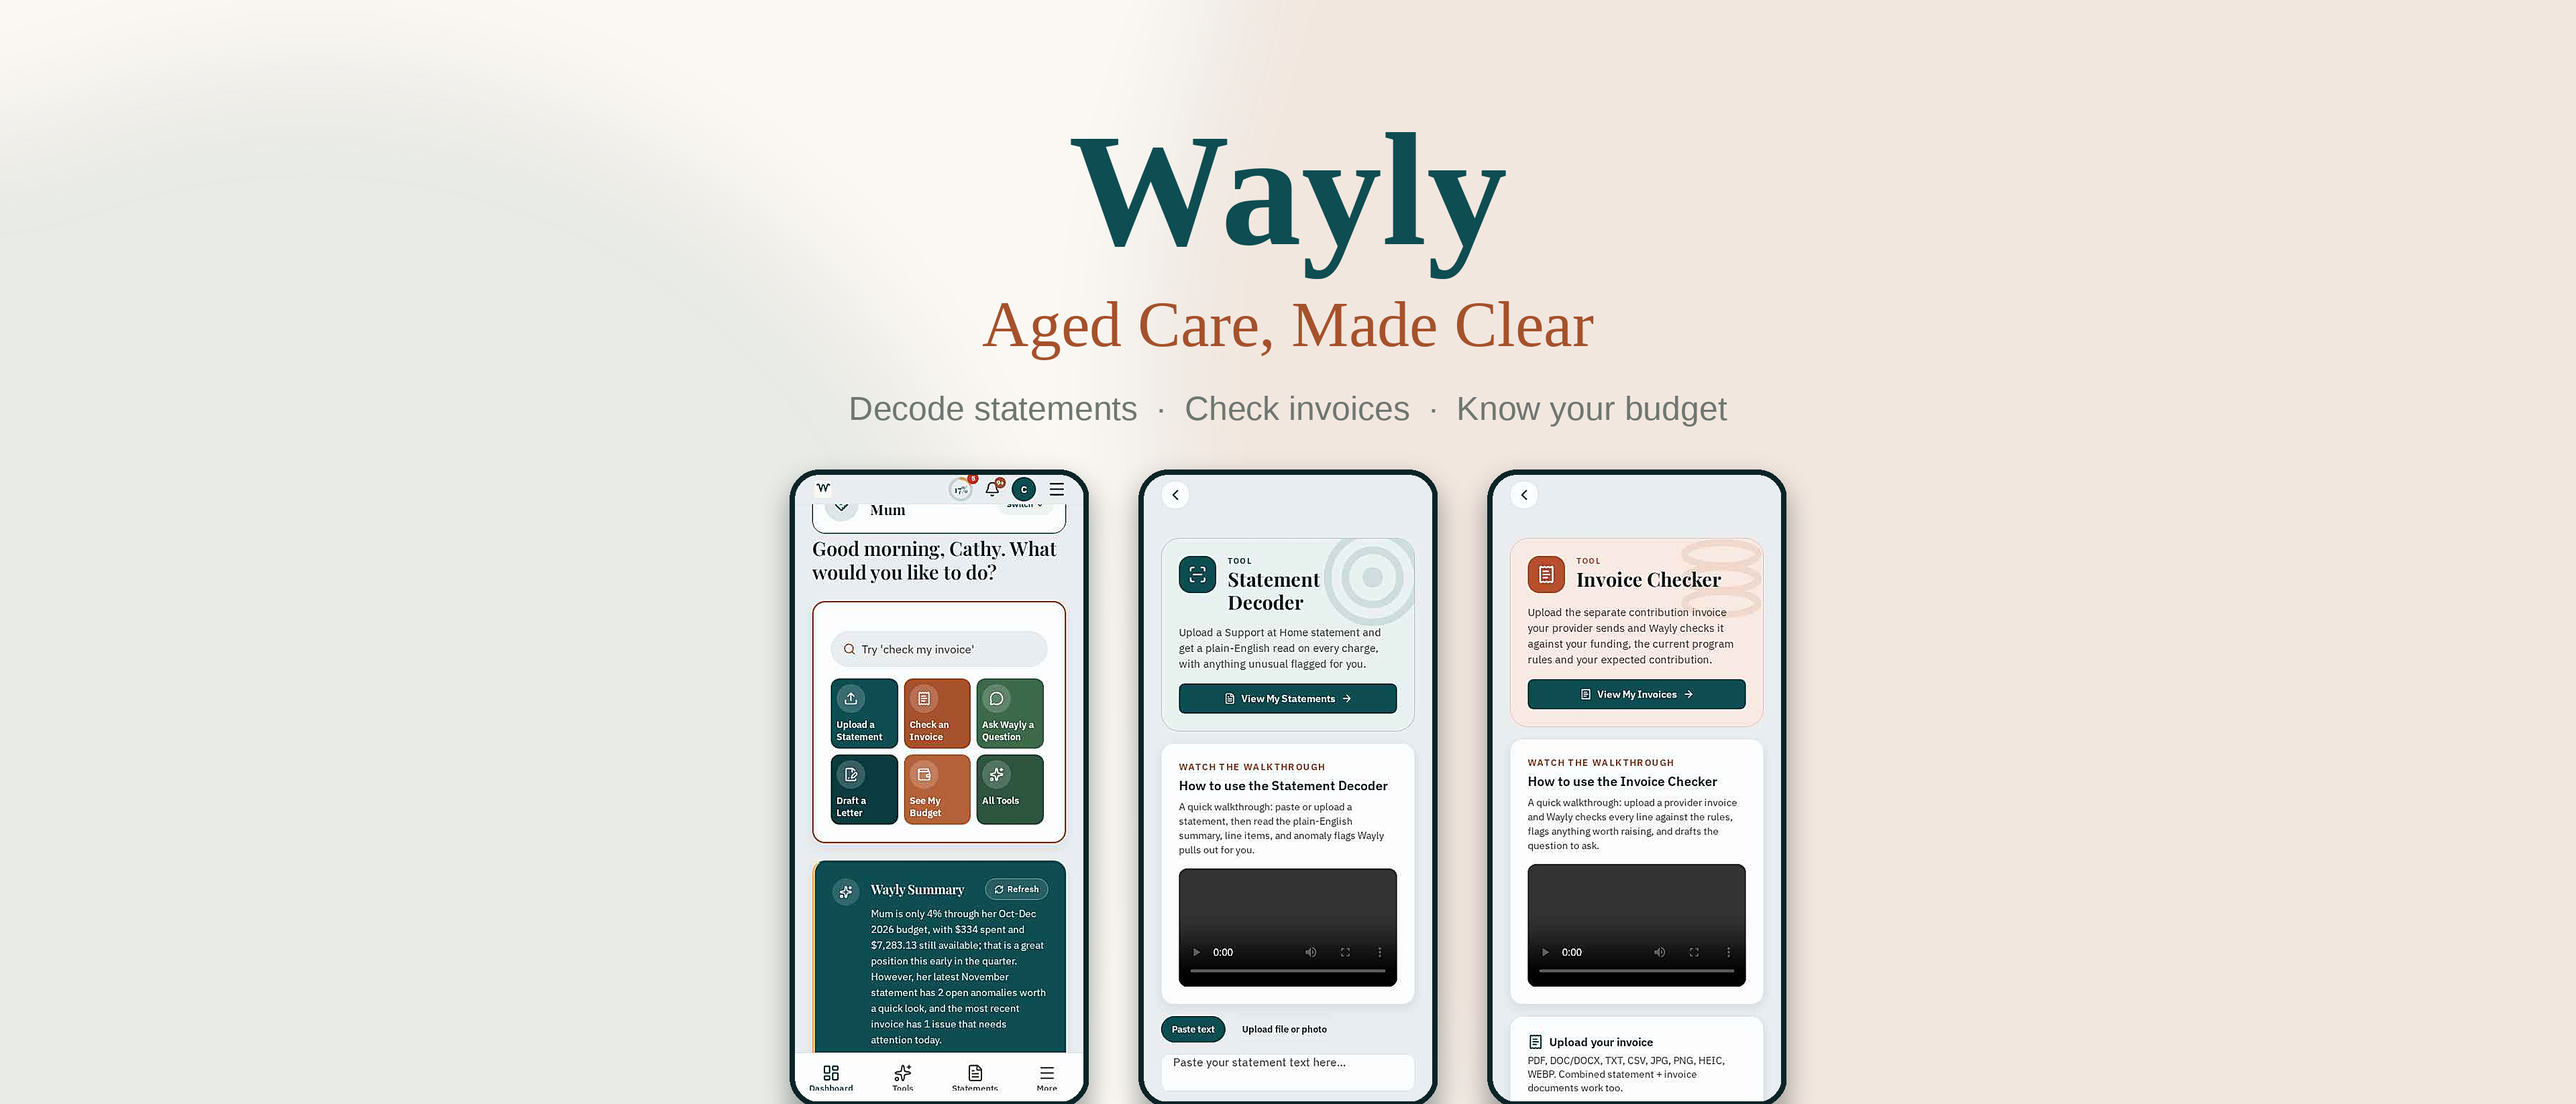
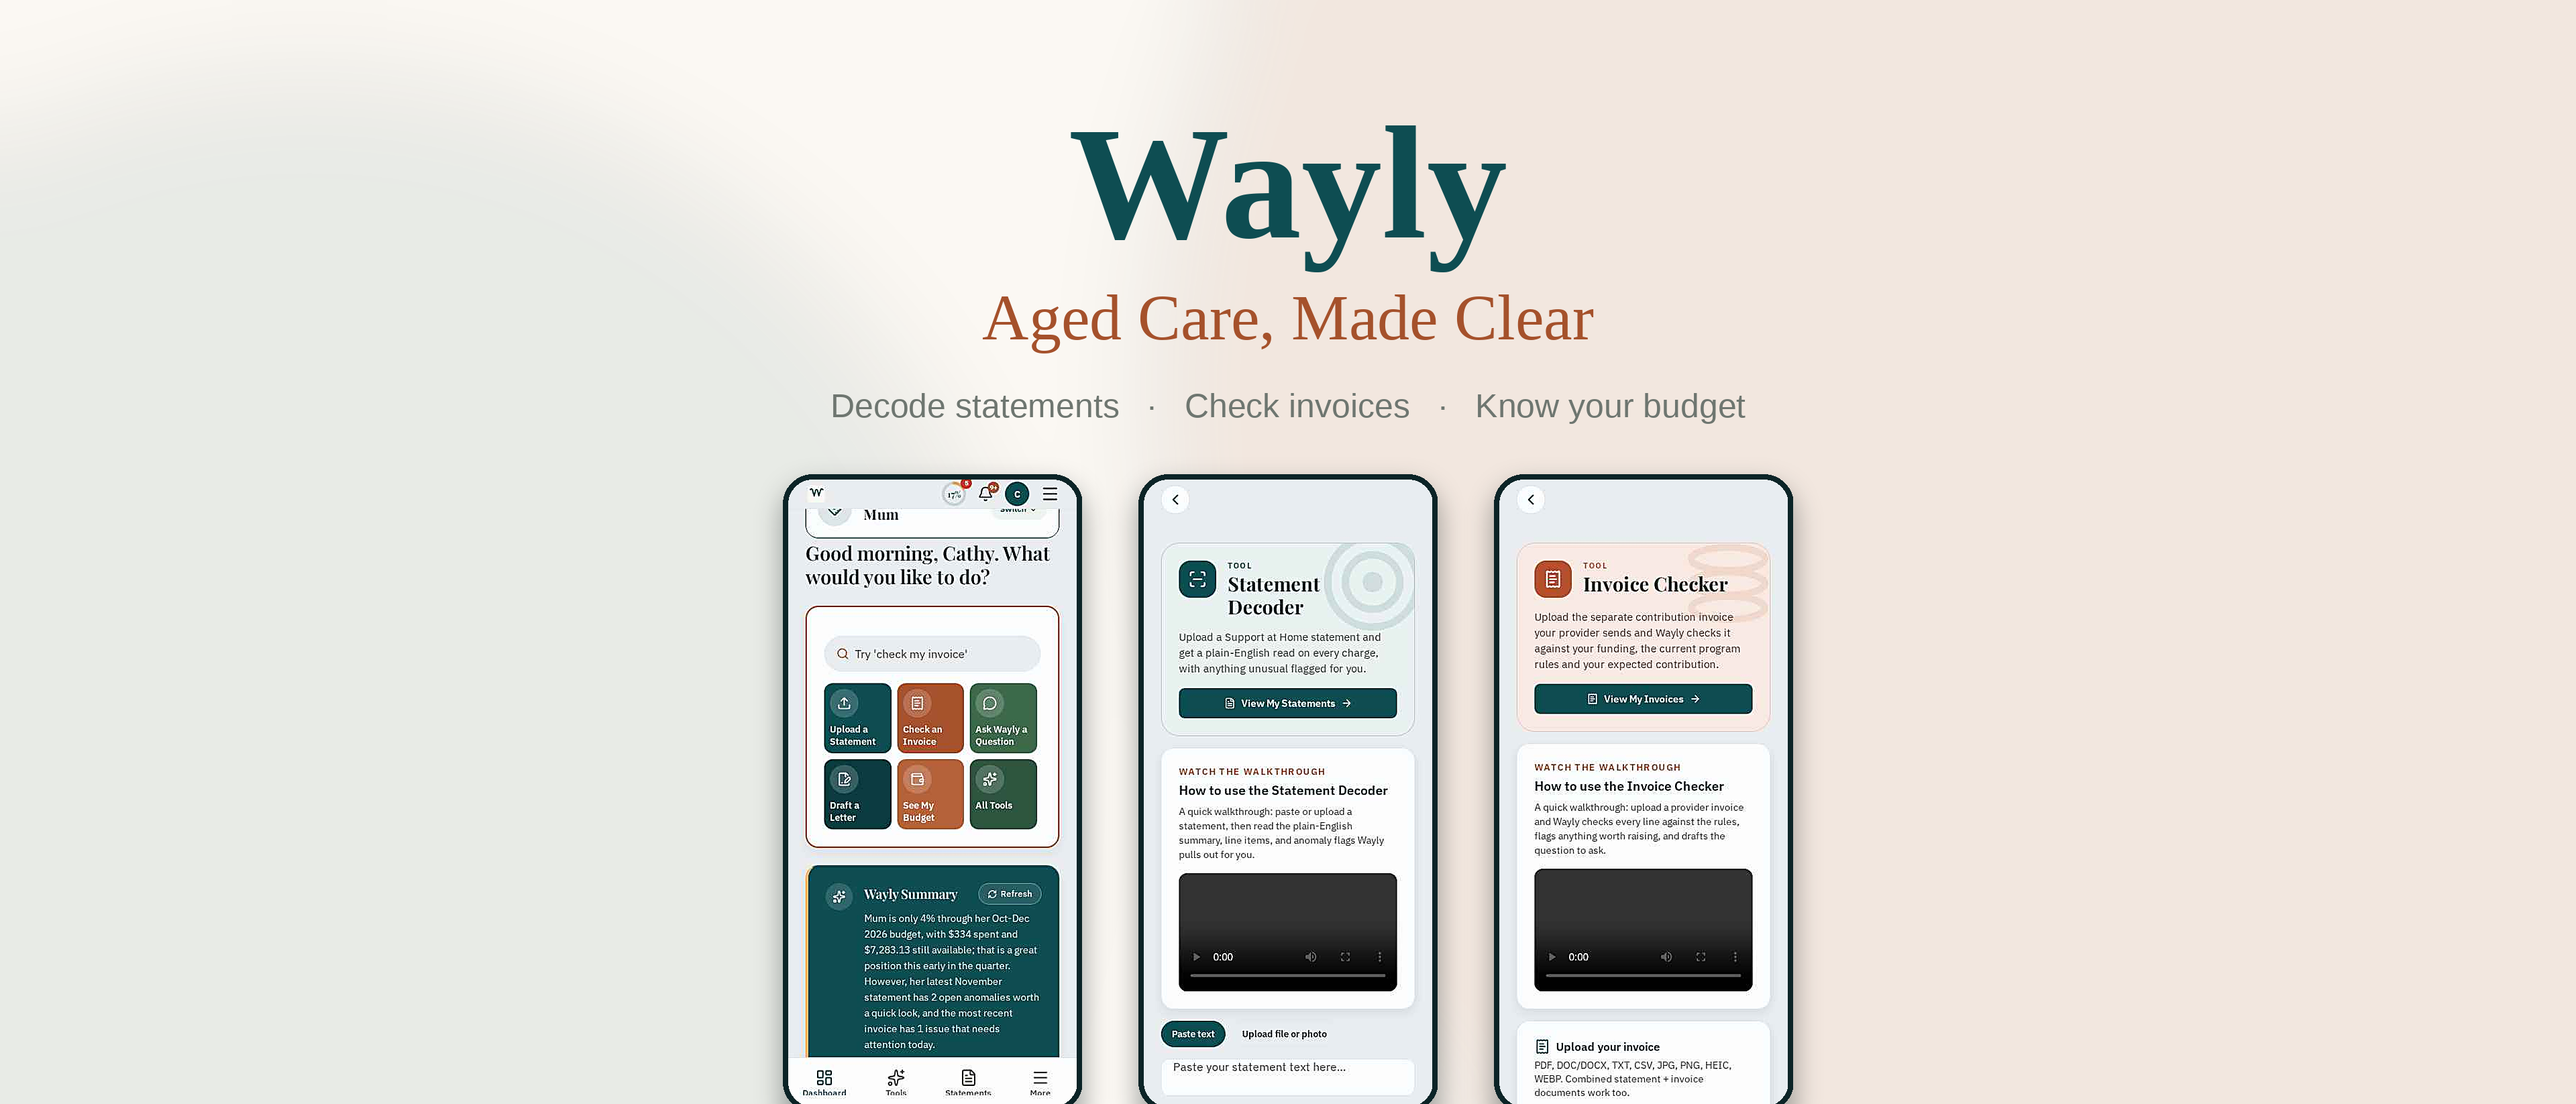
## Done this turn
**1. App Store creative assets (Header + Search Results)** — reviewed Apple's asset best-practices and generated **every size App Store Connect accepts** for both slots, grouped as zips (served at your web preview URL):
- **Header** → `wayly_header_assets.zip`: `3840×1646` + `5244×2950` (universal)
- **Search Results** → `wayly_search_assets.zip`: `1920×1280` + `3840×2560` + `5244×2950` (universal)
- The `5244×2950` file is Apple's recommended **universal asset** — one image usable across both slots. Upload the largest size each slot accepts; App Store scales the rest. Use the **Preview** button in App Store Connect before publishing.
- Compliant: no pricing/URLs/copyright, legible text kept in the safe centre, brand-first single idea.

**2. Mobile Dashboard parity (P0) — FIXED & verified** — `DashboardActionBar.tsx` quick-action tiles now show the descriptive subtitle under each title (e.g. "Upload a Statement" / "Decode your monthly Support at Home statement"), matching web. Grid switched from 3 columns to 2 columns so the text fits cleanly. Verified via screenshot logged in as cathy@example.com — all 6 tiles render title + subtitle. Mobile service restarted. (Small single-component change — verified by screenshot, no full testing-agent run needed.)

## Next Action Items
- **Statements & Invoices Parity**: Finish the core-screens parity review by comparing the mobile Statements and Invoices screens against web and aligning any gaps
[…]

diff --git a/mobile/src/components/DashboardActionBar.tsx b/mobile/src/components/DashboardActionBar.tsx
@@ -105,7 +105,10 @@ export function DashboardActionBar() {
                 <View style={[styles.tileIcon, { backgroundColor: "rgba(255,255,255,0.18)" }]}>
                   <Icon size={20} color="#fff" />
                 </View>
-                <T style={{ fontFamily: fonts.bodySemi, fontSize: 13, color: "#fff" }} numberOfLines={2}>{toTitleLabel(a.label)}</T>
+                <View style={{ gap: 3 }}>
+                  <T style={{ fontFamily: fonts.bodySemi, fontSize: 14, color: "#fff", lineHeight: 18 }} numberOfLines={2}>{toTitleLabel(a.label)}</T>
+                  <T style={{ fontFamily: fonts.body, fontSize: 11.5, color: "rgba(255,255,255,0.82)", lineHeight: 15 }} numberOfLines={2}>{a.hint}</T>
+                </View>
               </Pressable>
             );
           })}
@@ -124,6 +127,6 @@ const styles = StyleSheet.create({
   resultRow: { flexDirection: "row", alignItems: "center", gap: spacing.sm, paddingVertical: spacing.sm, borderBottomWidth: 1 },
   resultIcon: { width: 34, height: 34, borderRadius: radius.pill, alignItems: "center", justifyContent: "center" },
   grid: { flexDirection: "row", flexWrap: "wrap", gap: spacing.sm, marginTop: spacing.md },
-  tile: { width: "31%", minHeight: 96, borderRadius: radius.md, padding: spacing.sm, gap: spacing.sm, justifyContent: "flex-start" },
+  tile: { width: "48%", minHeight: 112, borderRadius: radius.md, padding: spacing.md, gap: spacing.sm, justifyContent: "flex-start" },
   tileIcon: { width: 40, height: 40, borderRadius: radius.pill, alignItems: "center", justifyContent: "center" },
 });

diff --git a/_caps/build_creative_assets.py b/_caps/build_creative_assets.py
@@ -1,0 +1,144 @@
+"""Generate App Store CREATIVE assets (Header + Search Results) at every size
+App Store Connect accepts, following Apple asset best practices:
+ - brand-focused, single clear idea
+ - no pricing / URLs / copyright symbols
+ - legible text, focal content kept in a safe centre area
+Header       : 3840x1646  and  5244x2950 (universal)
+Search Result: 1920x1280, 3840x2560  and  5244x2950 (universal)
+Reuses the warm-brand look + real mobile captures from build_assets.py."""
+import os
+from PIL import Image, ImageDraw, ImageFont, ImageFilter
+
+CAPS = "/app/_caps"
+OUT = "/app/frontend/public/appstore"
+os.makedirs(OUT, exist_ok=True)
+
+WARM = (251, 248, 243)
+TEAL = (14, 77, 82)
+TEAL_DARK = (11, 36, 39)
+CLAY = (165, 81, 43)
+MUT = (110, 118, 112)
+LIB = "/usr/share/fonts/truetype/liberation/"
+
+
+def font(f, s):
+    try:
+        return ImageFont.truetype(LIB + f, int(s))
+    except Exception:
+        return ImageFont.load_default()
+
+
+def serif(s):
+    return font("LiberationSerif-Bold.ttf", s)
+
+
+def serif_reg(s):
+    return font("LiberationSerif-Regular.ttf", s)
+
+
+def sans(s):
+    return font("LiberationSans-Regular.ttf", s)
+
+
+def load_cap(name):
+    return Image.open(os.path.join(CAPS, name)).convert("RGB")
+
+
+def rounded(im, rad):
+    im = im.convert("RGBA")
+    mask = Image.new("L", im.size, 0)
+    ImageDraw.Draw(mask).rounded_rectangle([0, 0, im.size[0], im.size[1]], radius=rad, fill=255)
+    im.putalpha(mask)
+    return im
+
+
+def accent(canvas, W, H):
+    layer = Image.new("RGBA", (W, H), (0, 0, 0, 0))
+    d = ImageDraw.Draw(layer)
+    r = int(W * 0.55)
+    d.ellipse([W - r, -int(r * 0.45), W + int(r * 0.45), r], fill=(165, 81, 43, 26))
+    r2 = int(W * 0.4)
+    d.ellipse([-int(r2 * 0.4), H - r2, r2, H + int(r2 * 0.4)], fill=(14, 77, 82, 20))
+    layer = layer.filter(ImageFilter.GaussianBlur(int(W * 0.02)))
+    canvas.alpha_composite(layer)
+
+
+def place_phone(canvas, cap, cx, top, phone_w):
+    ratio = cap.size[1] / cap.size[0]
+    phone_w = int(phone_w)
+    phone_h = int(phone_w * ratio)
+    up = phone_w / cap.size[0]
+    pct = 120 if up > 2 else 90
+    scr = cap.resize((phone_w, phone_h), Image.LANCZOS).filter(ImageFilter.UnsharpMask(radius=1.6, percent=pct, threshold=2))
+    rad = int(phone_w * 0.085)
+    bez = max(8, int(phone_w * 0.02))
+    bw, bh = phone_w + bez * 2, phone_h + bez * 2
+    x = int(cx - bw / 2)
+    sh = Image.new("RGBA", canvas.size, (0, 0, 0, 0))
+    ImageDraw.Draw(sh).rounded_rectangle([x, top + int(bh * 0.02), x + bw, top + bh + int(bh * 0.02)], radius=rad + bez, fill=(11, 36, 39, 95))
+    sh = sh.filter(ImageFilter.GaussianBlur(int(phone_w * 0.045)))
+    canvas.alpha_composite(sh)
+    bezimg = Image.new("RGBA", (bw, bh), (0, 0, 0, 0))
+    ImageDraw.Draw(bezimg).rounded_rectangle([0, 0, bw, bh], radius=rad + bez, fill=TEAL_DARK + (255,))
+    canvas.alpha_composite(bezimg, (x, top))
+    canvas.alpha_composite(rounded(scr, rad), (x + bez, top + bez))
+
+
+def save(canvas, name):
+    rgb = Image.new("RGB", canvas.size, WARM)
+    rgb.paste(canvas, mask=canvas.split()[3])
+    path = os.path.join(OUT, name)
+    rgb.save(path, "PNG", optimize=True)
+    print(name, rgb.size, round(os.path.getsize(path) / 1024), "KB")
+
+
+def ctext(d, cx, y, text, fnt, fill):
+    w = d.textlength(text, font=fnt)
+    d.text((cx - w / 2, y), text, font=fnt, fill=fill)
+
+
+# ---- Header / Universal layout (scales by height; centred, safe-area aware) ----
+def build_header(W, H, name):
+    s = H / 1646.0
+    canvas = Image.new("RGBA", (W, H), WARM + (255,))
+    accent(canvas, W, H)
+    d = ImageDraw.Draw(canvas)
+    ctext(d, W / 2, 0.085 * H, "Wayly", serif(240 * s), TEAL)
+    ctext(d, W / 2, 0.255 * H, "Aged Care, Made Clear", serif_reg(96 * s), CLAY)
+    ctext(d, W / 2, 0.350 * H, "Decode statements   ·   Check invoices   ·   Know your budget", sans(50 * s), MUT)
+    phones = ["01_dashboard.jpg", "04_statementdecoder.jpg", "05_invoicechecker.jpg"]
+    pw = 430 * s
+    gap = 100 * s
+    total = len(phones) * pw + (len(phones) - 1) * gap
+    startx = (W - total) / 2 + pw / 2
+    for j, p in enumerate(phones):
+        place_phone(canvas, load_cap(p), startx + j * (pw + gap), int(0.43 * H), pw)
+    save(canvas, name)
+
+
+# ---- Search layout 3:2 (text left, phone right; scales by width) ----
+def build_search(W, H, name):
+    s = W / 1920.0
+    canvas = Image.new("RGBA", (W, H), WARM + (255,))
+    accent(canvas, W, H)
+    d = ImageDraw.Draw(canvas)
+    tx = int(0.078 * W)
+    d.text((tx, 0.281 * H), "Wayly", font=serif(190 * s), fill=TEAL)
+    d.text((tx, 0.469 * H), "Aged Care, Made Clear", font=serif_reg(78 * s), fill=CLAY)
+    lines = ["Decode your monthly statement.", "Check every invoice line.", "Track your Support at Home budget."]
+    for k, ln in enumerate(lines):
+        d.text((tx, 0.5625 * H + k * 62 * s), ln, font=sans(42 * s), fill=MUT)
+    place_phone(canvas, load_cap("01_dashboard.jpg"), W - int(430 * s), int(0.117 * H), int(540 * s))
+    save(canvas, name)
+
+
+# Header slot
+build_header(3840, 1646, "header_3840x1646.png")
+build_header(5244, 2950, "header_5244x2950.png")   # universal (works for both slots)
+
+# Search Results slot
+build_search(1920, 1280, "search_1920x1280.png")
+build_search(3840, 2560, "search_3840x2560.png")
+build_header(5244, 2950, "search_5244x2950.png")   # universal 16:9 for search slot
+
+print("ALL DONE")

diff --git a/memory/CHANGELOG.md b/memory/CHANGELOG.md
@@ -1,3 +1,12 @@
+## Iter 373 — App Store creative assets (Header + Search sizes) + Mobile Dashboard tile-subtitle parity (Jun 2026, fork)
+**(1) App Store creative assets** — reviewed Apple asset-best-practices page; generated every size App Store Connect accepts for the two creative-asset slots via `/app/_caps/build_creative_assets.py` (warm-brand look, real mobile captures, no pricing/URLs/copyright, text centred in safe area):
+- Header slot: `header_3840x1646.png`, `header_5244x2950.png` (universal 16:9).
+- Search slot: `search_1920x1280.png`, `search_3840x2560.png`, `search_5244x2950.png` (universal 16:9, identical to header universal — Apple allows one universal asset for both slots).
+- Grouped for download in `/app/frontend/public/appstore/`: `wayly_header_assets.zip`, `wayly_search_assets.zip` (plus existing `wayly_appstore_iphone.zip`, `wayly_appstore_ipad.zip`). Served at `<APP_URL>/appstore/<zip>`.
+- Note: header phone mockups still show HTML5 video-player chrome on the Statement Decoder / Invoice Checker captures (cosmetic; design was previously user-approved).
+**(2) Mobile Dashboard parity (P0)** — `mobile/src/components/DashboardActionBar.tsx`: quick-action tiles now render the descriptive `hint` subtitle under each title (matching web `DashboardActionBar.jsx`), and the grid changed from 3 columns (`width: 31%`, minHeight 96) to 2 columns (`width: 48%`, minHeight 112) so the subtitle text fits — mirrors web's mobile-viewport layout. Verified via screenshot (logged in as cathy@example.com, all 6 tiles show title + subtitle).
+
+
 ## Iter 372 — Homepage hero video: fix black bars + autoplay/accessibility + branded poster + 720p clip (Jun 2026, fork) ✅ verified iteration_371
 Web-only, scoped to the hero video section (`frontend/src/components/DualFlagshipHero.jsx` → new `HeroVideo.jsx`).
 - **Diagnosis**: probed the source file with OpenCV — it is exactly **1920×1080 (16:9, 1.77778)**, 58.2s, 30fps, and has **NO baked-in black bars** (edge pixels ~220, not black). The bars in the user's screenshot were CSS: the old frame used `aspect-video` + `bg-black`, so any ratio rounding / native video letterboxing showed as black. No ffmpeg cropping needed.
